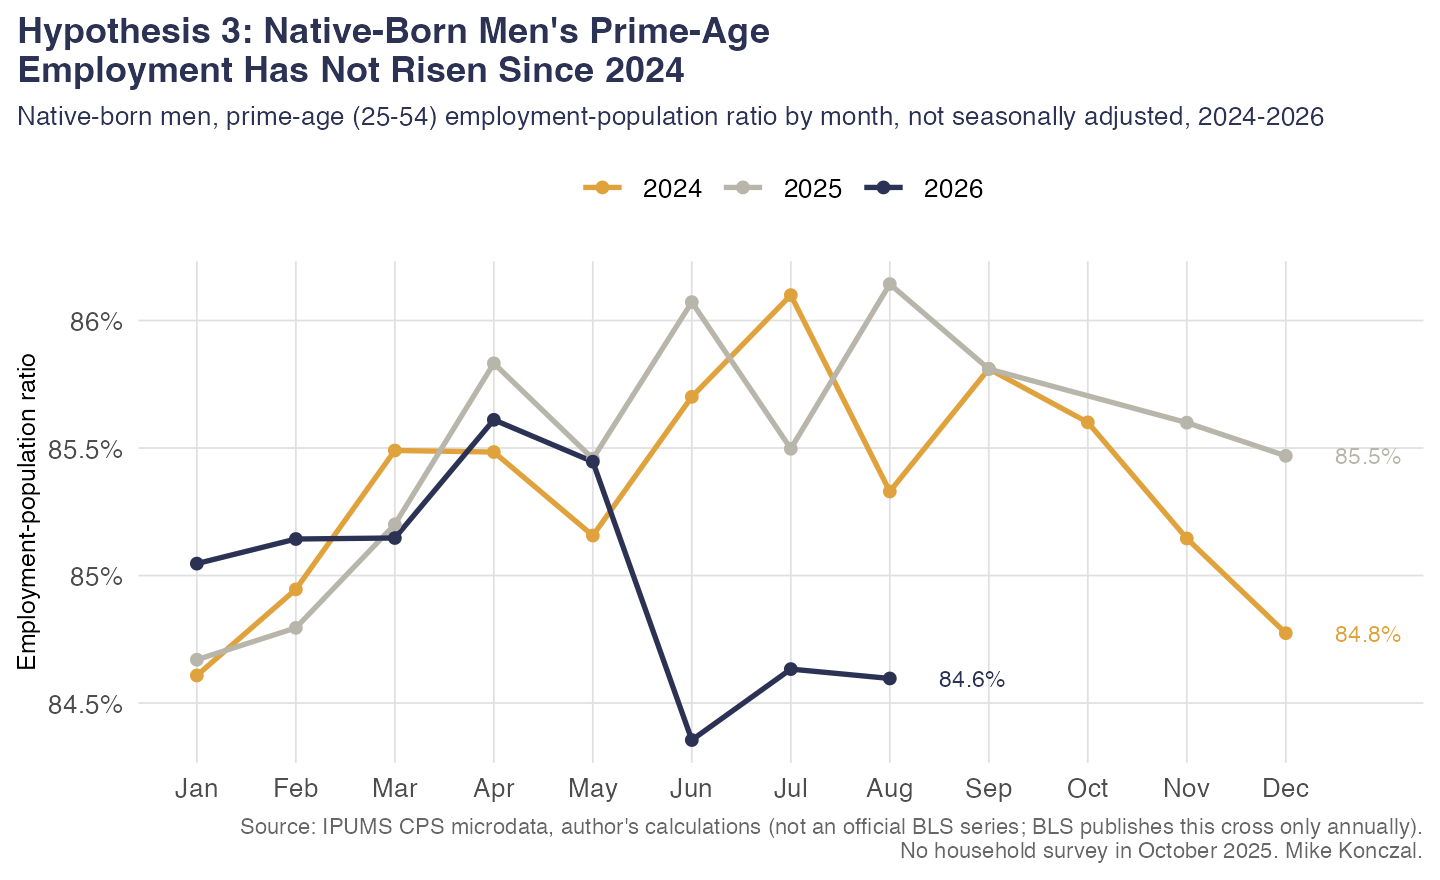
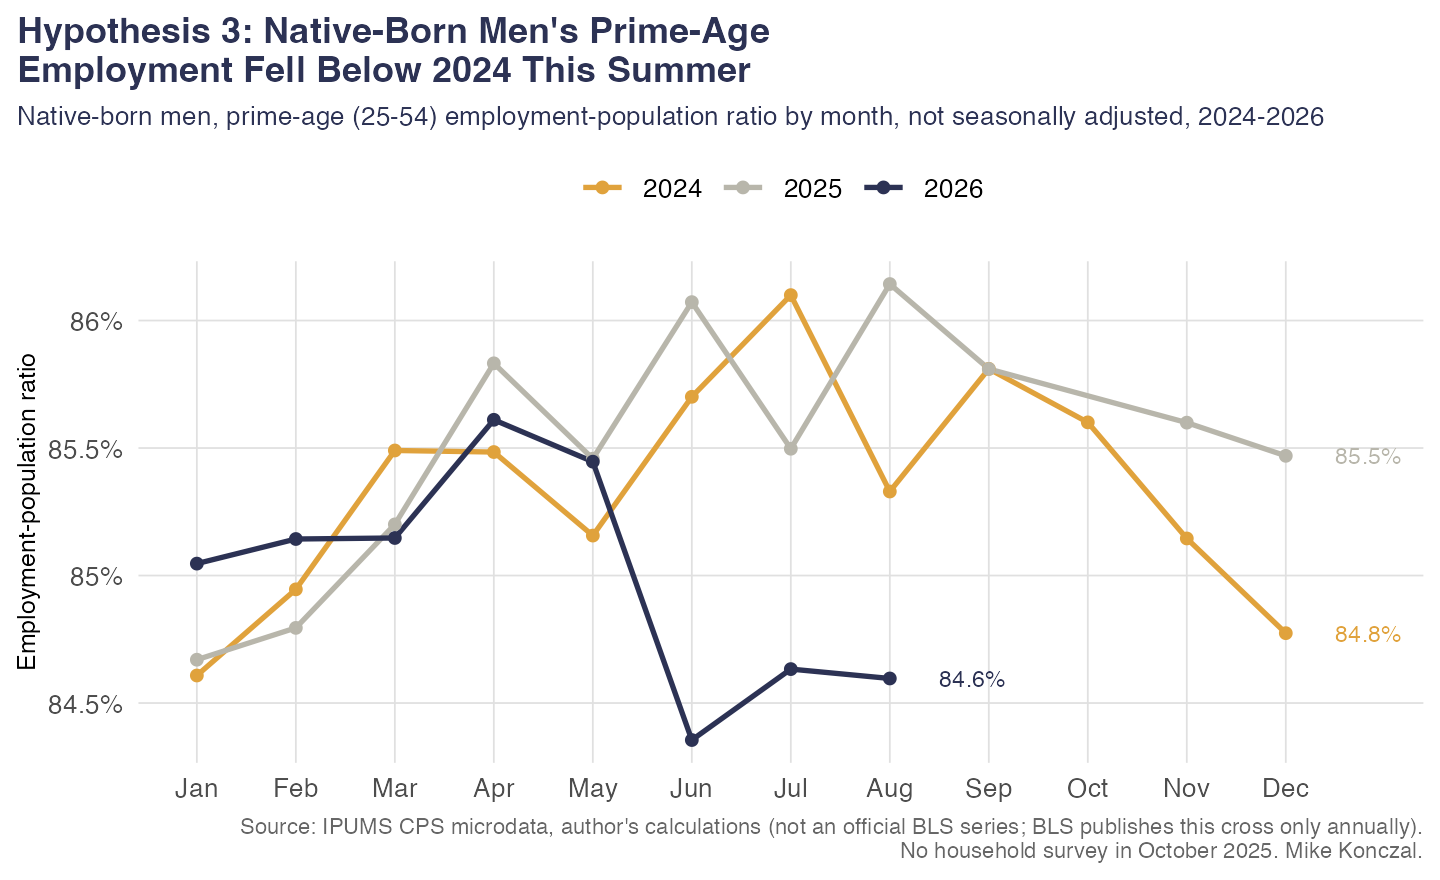
Another pass

Changed region(s): [[0.1562, 0.0614, 0.5312, 0.092]]

diff --git a/blog_post.md b/blog_post.md
@@ -1,8 +1,8 @@
-In response to my [recent post on women gaining 101% of jobs](https://newsletter.mikekonczal.com/p/why-are-women-over-100-of-jobs-gained) under the Trump administration, [many commentators argued](https://www.breitbart.com/economy/2026/09/10/breitbart-business-digest-liberals-are-worried-too-many-women-got-jobs-last-month/) that this was largely about immigration, about native-born male workers taking jobs formerly held by deported immigrants, which would balance out at zero job gains. As we will see, that's not true (see Hypothesis 3 below): the native-born prime-age male employment-to-population ratio is now about the same as or even below 2024 levels.
+In response to my [recent post on women gaining 101% of net payroll jobs](https://newsletter.mikekonczal.com/p/why-are-women-over-100-of-jobs-gained) under the Trump administration, [many commentators argued](https://www.breitbart.com/economy/2026/09/10/breitbart-business-digest-liberals-are-worried-too-many-women-got-jobs-last-month/) that this was largely about immigration, about native-born male workers taking jobs formerly held by deported immigrants, which would balance out at zero job gains. But the promised native-born employment boom is hard to find (see Hypothesis 3 below): the native-born prime-age male employment-to-population ratio fell below its corresponding 2024 levels this summer.
 
 But it did make me realize that it's been a little bit since I took a dive into the immigration debates. I'm nervous doing this because I know the Trump administration is not exactly "preponderance of the evidence" people. If they find one thing, one way to pitch the data favorable to them, they'll run with it. Indeed, they spent a lot of 2025 arguing off the CPS raw levels, even though [Jed Kolko](https://jedkolko.substack.com/p/no-native-born-employment-has-not) spent a lot of time politely and ultimately correctly explaining why that was not a good idea. What are the chances we shoot the moon, and find that all ten of our different hypotheses turn out to go against the restrictionist case?
 
-Pretty good actually. I crank through 10 ways in which the mass deportations of the past year could have made things better for native-born workers in the labor market, and none of them came true. They are all null or go in the other direction. That's remarkable. A reminder that the unemployment rate right now (4.14%) is about where it was two years ago (4.19%), so we can't point to an obviously overall weaker macro environment to explain this away. Their theory of the labor market isn't coming true.
+Pretty good actually. I crank through 10 indicators where we might expect to see that payoff. There is no employment or wage-growth boom for native-born workers in this data. Any promised payoff is hard to find.
 
 We're going to move pretty fast through this. There's [a GitHub here](https://github.com/mtkonczal/blogs_2026_09_deportations_any_native_benefit) where you can go ahead and ask your AI to download it and check it yourself. Let's channel Jonathan Frakes telling us that none of these ever happened, they are all fiction, as we go through these.
 
@@ -20,11 +20,11 @@ It never happened. It's higher instead. (Not seasonally adjusted, published BLS 
 
 Not this time. Instead, it is lower. (Not seasonally adjusted, aggregated published BLS categories.)
 
-**Hypothesis 3: Prime-age employment would rise for native-born male workers.** Overall employment is lower, but maybe it would rise for men. During the 2024 election, in response to a question about deportations, J.D. Vance [said](https://reason.com/2024/10/17/j-d-vance-says-7-million-able-bodied-men-have-dropped-out-of-the-labor-force-where-are-they/), "You would take, let's say for example, the seven million prime-age men who have dropped out of the labor force" and "re-engage folks into the American labor market." He later noted, "we have seven million—just men, not even women, just men—who have completely dropped out of the labor force." Did that work?
+**Hypothesis 3: Prime-age employment would rise for native-born male workers.** The native-born prime-age employment rate is lower, but maybe men did better. During the 2024 election, in response to a question about deportations, J.D. Vance [said](https://reason.com/2024/10/17/j-d-vance-says-7-million-able-bodied-men-have-dropped-out-of-the-labor-force-where-are-they/), "You would take, let's say for example, the seven million prime-age men who have dropped out of the labor force" and "re-engage folks into the American labor market." He later noted, "we have seven million—just men, not even women, just men—who have completely dropped out of the labor force." Has that translated into an employment boom?
 
-![Native-born men's prime-age employment-population ratio by month, not seasonally adjusted: no higher in 2026 than 2024](graphics/fig3_native_men_epop_monthly.png)
+![Native-born men's prime-age employment-population ratio by month, not seasonally adjusted: June-August 2026 below the corresponding 2024 months](graphics/fig3_native_men_epop_monthly.png)
 
-It's a made-up tale. Employment ran slightly around or above 2024 through May, then fell well below it this summer. (Not seasonally adjusted, author's IPUMS calculation.)
+It's a made-up tale. The employment rate ran roughly around 2024 levels through May, then fell well below them this summer. Labor-force participation is a different measure: among these men, it was essentially unchanged over January-August compared with 2024, even as the employment rate fell. (Not seasonally adjusted, author's IPUMS calculation.)
 
 **Hypothesis 4: Least-educated native workers would do better.** Native-born workers without a college degree should have the most to gain when it comes to unemployment rates.
 
@@ -32,13 +32,13 @@ It's a made-up tale. Employment ran slightly around or above 2024 through May, t
 
 It's totally pure fiction. (Not seasonally adjusted, author's IPUMS calculation.)
 
-**Hypothesis 5: In the states that actually lost the most noncitizen workers, native-born employment should rise.**
+**Hypothesis 5: States with larger declines in noncitizen employment should see larger native-born employment gains.**
 
-![By state, noncitizen jobs lost versus native-born jobs gained, per 100 prime-age residents: states do not follow the one-for-one replacement line](graphics/fig11_exposure_native.png)
+![State changes in measured noncitizen employment shares and native-born employment rates show no clear relationship; the fitted line slopes slightly downward](graphics/fig11_exposure_native.png)
 
-Not a chance. If native-born workers took the jobs noncitizens left, states would line up along the dashed line, where you have one native-born job gained for every noncitizen job lost. Instead the line is flat. That immigration enforcement doesn't help native-born employment, and can even reduce it, is already in the empirical economics literature ([East et al. 2023](https://www.journals.uchicago.edu/doi/10.1086/721152)), but I guess we get to relearn it here. (Author's IPUMS calculation.)
+Not a chance. States with larger measured declines in noncitizen employment as a share of their prime-age population did not systematically see larger increases in native-born employment rates. The fitted line is roughly flat, if anything sloping downward. These noisy survey changes cannot tell us how many people were deported or separate enforcement from other local economic changes. But stronger evidence already exists: [East et al. (2023)](https://www.journals.uchicago.edu/doi/10.1086/721152) found that Secure Communities reduced employment and hourly wages among U.S.-born workers. (Author's IPUMS calculation.)
 
-**Hypothesis 6: Native-born wage growth would pick up for lower-income workers.** Let's stick with nominal wage growth for native-born workers, since the Iran war causes inflation to skyrocket (and real wages to fall), which is very bad for these workers but separate from what we want to explore here.
+**Hypothesis 6: Native-born wage growth would pick up for lower-wage workers.** Let's stick with nominal wage growth for native-born workers, since the Iran war causes inflation to skyrocket (and real wages to fall), which is very bad for these workers but separate from what we want to explore here.
 
 ![Nominal hourly wage growth for native-born workers at the 10th, 20th, and 40th percentiles and the median, 2023 to 2026: growth slowed across the bottom half, and the bottom slowed first](graphics/fig14c_nominal_wage_percentiles_monthly.png)
 
@@ -46,9 +46,9 @@ It's a fake. Whether it is the 10th, 20th, or 40th percentile, wage growth slowe
 
 **Hypothesis 7: Unemployed native workers could at least find work faster because immigrants were out of the way.**
 
-![Monthly job-finding rate for unemployed native-born workers fell](graphics/fig6_job_finding.png)
+![Job-finding rate for unemployed native-born prime-age workers, averaged over 12 available monthly observations, fell to its lowest level since 2021](graphics/fig6_job_finding.png)
 
-We made it up. The monthly job-finding rate for unemployed, native-born, prime-age workers slid through 2024, held flat in 2025, and has fallen again in 2026 to its lowest level since 2021.
+We made it up. The smoothed job-finding rate for unemployed, native-born, prime-age workers slid through 2024, held roughly flat in 2025, and has fallen again in 2026 to its lowest level since 2021. 
 
 **Hypothesis 8: Immigration is behind the fall in the labor share, so mass deportations should push it back up.** That immigration was driving down the labor share was something I remember [Batya Ungar-Sargon bringing up](https://www.compactmag.com/article/the-immigration-election/) during the 2024 election as a reason to support President Trump.
 
@@ -62,10 +62,10 @@ It's a total fabrication. The labor share actually falls suddenly and dramatical
 
 We created it. Both measures are at or below their 2024 levels in 2026. Vacancies per unemployed worker have ticked up this year, but only back to where they were in late 2024.
 
-**Hypothesis 10: Native-born workers in construction should particularly benefit.** A very high foreign-born labor share and it’s hard to automate with AI.
+**Hypothesis 10: Native-born workers in construction should particularly benefit.** A very high foreign-born labor share and it’s hard to automate with AI. Start with prime-age workers.
 
 ![Construction: the foreign-born share of employment fell after 2024, while the share of native-born prime-age adults working in construction stayed flat](graphics/fig9_construction.png)
 
-It's an urban legend. The foreign-born share of construction employment fell. But the share of native-born prime-age adults working in construction didn't rise. It stayed flat.
+It's an urban legend. The measured foreign-born share of construction employment fell. But the share of native-born prime-age adults working in construction didn't rise. It stayed roughly flat. 
 
-This doesn't surprise me, and yet I remain surprised by how nothing here tracks to make the economic reality or labor market situation of native-born workers better off. I bet the Trump administration, with an approval rating now with a two-handle, is also surprised as to why everyone hates them and their handling of the economy. If they expected these deportations to have such amazing upsides that they'd balance out the trillions in cuts to health care and brand new neocon wars, economic theory and an incredibly developed empirical literature over the past 20 years would have all told them otherwise.
+This doesn't surprise me, and yet I remain surprised by how hard it is to find a broad payoff for native-born workers here. I bet the Trump administration, whose approval now has a [2 handle](https://americanresearchgroup.com/economy/), is also surprised by how unpopular it and its handling of the economy have become. If they expected these deportations to have such amazing upsides that they'd balance out a $1 trillion in health-care cuts and brand new neocon wars, simple economic theory and a well developed empirical literature would have all told them otherwise.
